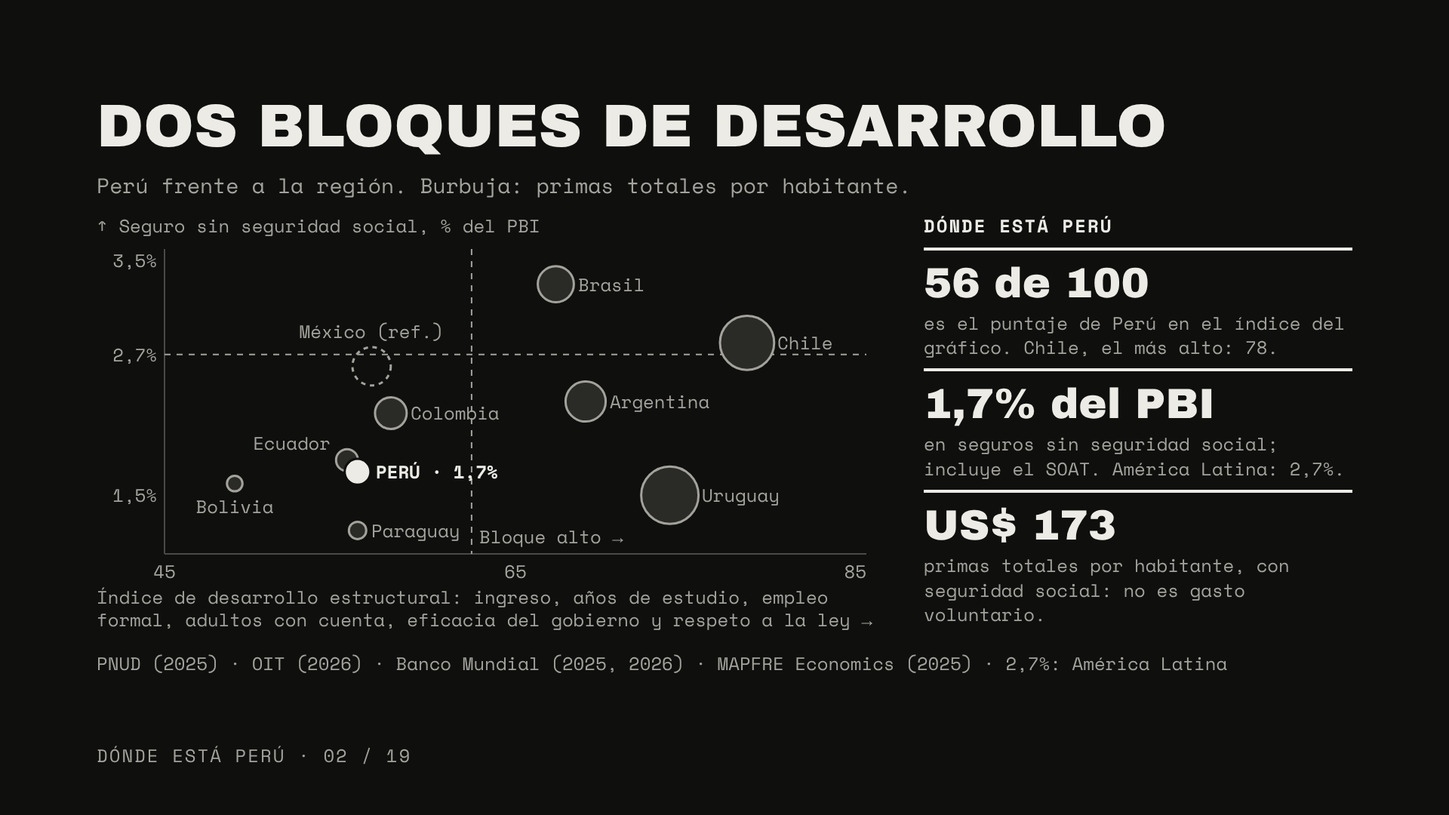
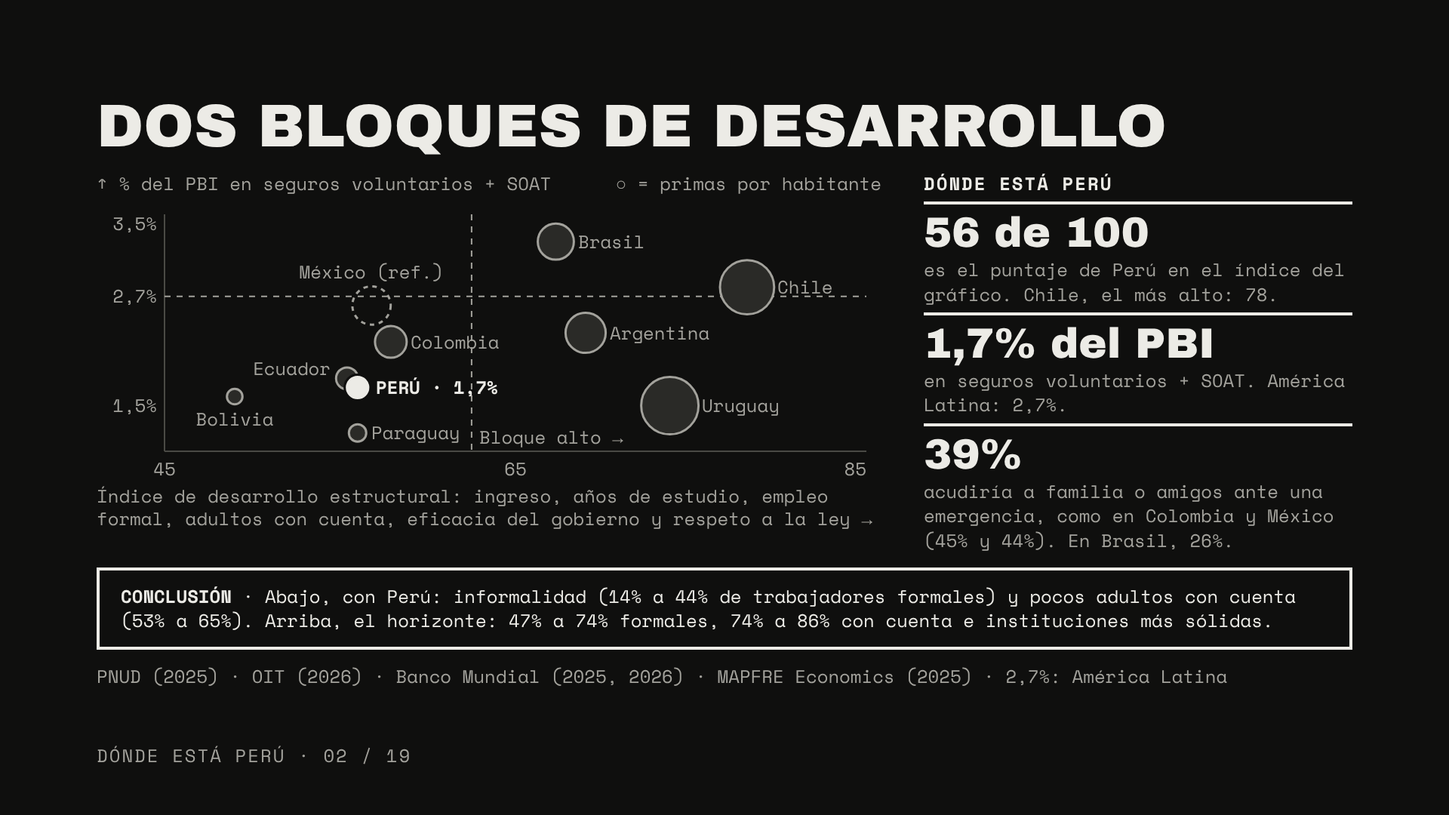
Lámina 2: eje de seguros voluntarios + SOAT, dato de conducta y cuadro de conclusión
Quita la línea de uso interno de la portada y regenera el HTML.

Claude-Session: https://claude.ai/code/session_0172Gzwbb2YLHGW14wEzAdeb

diff --git a/reports/presentacion-sudamerica/monocromo/seguros-digitales-peru-region.html b/reports/presentacion-sudamerica/monocromo/seguros-digitales-peru-region.html
@@ -76,60 +76,60 @@ section.inv { background: #ECEBE6; color: #0F0F0E; }
 <h1 class="cover-t">Seguros digitales:<br>Perú y la región</h1>
 <p class="sub" style="width:1300px">Cómo capturan valor las aseguradoras de los países que se parecen a Perú y de los que marcan el horizonte.</p>
 <div class="spacer"></div>
-<div style="border-top:8px solid #ECEBE6;padding-top:20px"><p class="dim">Documento de trabajo · Uso interno: incluye citas de entrevistas</p></div>
-<aside>Portada. Qué decir: esta presentación responde dos preguntas. Primero, dónde está Perú frente a la región en formalidad, seguros y digitalización. Segundo, cómo capturan valor con ecosistemas digitales y tecnología, en el front y en el back, las aseguradoras de los países que se parecen a Perú y las de los países que marcan el horizonte; cierra con lo que hace la competencia en Perú y lo que viene. Es un documento de trabajo de uso interno porque incluye citas de dos entrevistas a usuarias. Puente: empecemos por dónde está Perú.</aside>
+<aside>Portada. Qué decir: esta presentación responde dos preguntas. Primero, dónde está Perú frente a la región en formalidad, seguros y digitalización. Segundo, cómo capturan valor con ecosistemas digitales y tecnología, en el front y en el back, las aseguradoras de los países que se parecen a Perú y las de los países que marcan el horizonte; cierra con lo que hace la competencia en Perú y lo que viene. Puente: empecemos por dónde está Perú.</aside>
 </section>
 <section id="contexto-estructural" data-transition="fade">
 <h2 class="t">Dos bloques de desarrollo</h2>
-<p class="sub">Perú frente a la región. Burbuja: primas totales por habitante.</p>
 <div class="row">
-<div class="host" style="width:1040px;height:560px">
-<svg aria-label="Gráfico de burbujas: índice de desarrollo estructural frente a penetración del seguro sin primas de seguridad social, por país" width="1040" height="530" viewBox="0 0 1040 530">
-<line x1="90" y1="46" x2="90" y2="450" stroke="#4A4A45" stroke-width="2"/>
-<line x1="90" y1="450" x2="1020" y2="450" stroke="#4A4A45" stroke-width="2"/>
-<line x1="496.9" y1="46" x2="496.9" y2="450" stroke="#A3A29C" stroke-width="2" stroke-dasharray="8 8"/>
-<line x1="90" y1="185.8" x2="1020" y2="185.8" stroke="#A3A29C" stroke-width="2" stroke-dasharray="8 8"/>
-<circle cx="759.6" cy="372.3" r="38" fill="#2A2A27" stroke="#A3A29C" stroke-width="3"/>
-<circle cx="861.9" cy="170.3" r="35.9" fill="#2A2A27" stroke="#A3A29C" stroke-width="3"/>
-<circle cx="648" cy="248" r="26.6" fill="#2A2A27" stroke="#A3A29C" stroke-width="3"/>
-<circle cx="364.4" cy="201.4" r="25.4" fill="none" stroke="#A3A29C" stroke-width="3" stroke-dasharray="6 6"/>
-<circle cx="608.5" cy="92.6" r="23.9" fill="#2A2A27" stroke="#A3A29C" stroke-width="3"/>
-<circle cx="389.9" cy="263.5" r="21" fill="#2A2A27" stroke="#A3A29C" stroke-width="3"/>
-<circle cx="331.8" cy="325.7" r="14.5" fill="#2A2A27" stroke="#A3A29C" stroke-width="3"/>
-<circle cx="345.8" cy="418.9" r="11.5" fill="#2A2A27" stroke="#A3A29C" stroke-width="3"/>
-<circle cx="183" cy="356.8" r="10.3" fill="#2A2A27" stroke="#A3A29C" stroke-width="3"/>
-<circle cx="345.8" cy="341.2" r="17.1" fill="#ECEBE6" stroke="#0F0F0E" stroke-width="3"/>
+<div class="host" style="width:1040px;height:478px">
+<svg aria-label="Gráfico de burbujas: índice de desarrollo estructural frente a primas de seguros voluntarios más SOAT como porcentaje del PBI, por país" width="1040" height="372" viewBox="0 0 1040 372">
+<line x1="90" y1="56" x2="90" y2="370" stroke="#4A4A45" stroke-width="2"/>
+<line x1="90" y1="370" x2="1020" y2="370" stroke="#4A4A45" stroke-width="2"/>
+<line x1="496.9" y1="56" x2="496.9" y2="370" stroke="#A3A29C" stroke-width="2" stroke-dasharray="8 8"/>
+<line x1="90" y1="164.7" x2="1020" y2="164.7" stroke="#A3A29C" stroke-width="2" stroke-dasharray="8 8"/>
+<circle cx="759.6" cy="309.6" r="38" fill="#2A2A27" stroke="#A3A29C" stroke-width="3"/>
+<circle cx="861.9" cy="152.6" r="35.9" fill="#2A2A27" stroke="#A3A29C" stroke-width="3"/>
+<circle cx="648.0" cy="213.0" r="26.6" fill="#2A2A27" stroke="#A3A29C" stroke-width="3"/>
+<circle cx="364.3" cy="176.8" r="25.4" fill="none" stroke="#A3A29C" stroke-width="3" stroke-dasharray="6 6"/>
+<circle cx="608.5" cy="92.2" r="23.9" fill="#2A2A27" stroke="#A3A29C" stroke-width="3"/>
+<circle cx="389.9" cy="225.1" r="21" fill="#2A2A27" stroke="#A3A29C" stroke-width="3"/>
+<circle cx="331.8" cy="273.4" r="14.5" fill="#2A2A27" stroke="#A3A29C" stroke-width="3"/>
+<circle cx="345.8" cy="345.8" r="11.5" fill="#2A2A27" stroke="#A3A29C" stroke-width="3"/>
+<circle cx="183.0" cy="297.5" r="10.3" fill="#2A2A27" stroke="#A3A29C" stroke-width="3"/>
+<circle cx="345.8" cy="285.5" r="17.1" fill="#ECEBE6" stroke="#0F0F0E" stroke-width="3"/>
 </svg>
-<p class="lab" style="left:0px;top:0px;width:720px">↑ Seguro sin seguridad social, % del PBI</p>
-<p class="lab" style="left:0px;top:46px;width:80px;text-align:right">3,5%</p>
-<p class="lab" style="left:0px;top:171px;width:80px;text-align:right">2,7%</p>
-<p class="lab" style="left:0px;top:357px;width:80px;text-align:right">1,5%</p>
-<p class="lab" style="left:60px;top:458px;width:60px;text-align:center">45</p>
-<p class="lab" style="left:525px;top:458px;width:60px;text-align:center">65</p>
-<p class="lab" style="left:960px;top:458px;width:60px;text-align:right">85</p>
-<p class="lab" style="left:0px;top:492px;width:1040px">Índice de desarrollo estructural: ingreso, años de estudio, empleo formal, adultos con cuenta, eficacia del gobierno y respeto a la ley →</p>
-<p class="lab" style="left:507px;top:412px;width:200px">Bloque alto →</p>
-<p class="labpe" style="left:370px;top:326px;width:200px">PERÚ · 1,7%</p>
-<p class="lab" style="left:170px;top:288px;width:140px;text-align:right">Ecuador</p>
-<p class="lab" style="left:364px;top:404px;width:130px">Paraguay</p>
-<p class="lab" style="left:128px;top:372px;width:110px;text-align:center">Bolivia</p>
-<p class="lab" style="left:416px;top:248px;width:140px">Colombia</p>
-<p class="lab" style="left:259px;top:140px;width:210px;text-align:center">México (ref.)</p>
-<p class="lab" style="left:638px;top:78px;width:120px">Brasil</p>
-<p class="lab" style="left:680px;top:233px;width:150px">Argentina</p>
-<p class="lab" style="left:902px;top:155px;width:110px">Chile</p>
-<p class="lab" style="left:802px;top:357px;width:130px">Uruguay</p>
+<p class="lab" style="left:0px;top:0px;width:610px">↑ % del PBI en seguros voluntarios + SOAT</p>
+<p class="lab" style="left:680px;top:0px;width:360px;text-align:right">○ = primas por habitante</p>
+<p class="lab" style="left:0px;top:53px;width:80px;text-align:right">3,5%</p>
+<p class="lab" style="left:0px;top:149px;width:80px;text-align:right">2,7%</p>
+<p class="lab" style="left:0px;top:294px;width:80px;text-align:right">1,5%</p>
+<p class="lab" style="left:60px;top:378px;width:60px;text-align:center">45</p>
+<p class="lab" style="left:525px;top:378px;width:60px;text-align:center">65</p>
+<p class="lab" style="left:960px;top:378px;width:60px;text-align:right">85</p>
+<p class="lab" style="left:0px;top:414px;width:1040px">Índice de desarrollo estructural: ingreso, años de estudio, empleo formal, adultos con cuenta, eficacia del gobierno y respeto a la ley →</p>
+<p class="lab" style="left:507px;top:336px;width:200px">Bloque alto →</p>
+<p class="labpe" style="left:370px;top:270px;width:200px">PERÚ · 1,7%</p>
+<p class="lab" style="left:170px;top:245px;width:140px;text-align:right">Ecuador</p>
+<p class="lab" style="left:364px;top:330px;width:130px">Paraguay</p>
+<p class="lab" style="left:128px;top:312px;width:110px;text-align:center">Bolivia</p>
+<p class="lab" style="left:416px;top:210px;width:140px">Colombia</p>
+<p class="lab" style="left:259px;top:117px;width:210px;text-align:center">México (ref.)</p>
+<p class="lab" style="left:638px;top:77px;width:120px">Brasil</p>
+<p class="lab" style="left:680px;top:198px;width:150px">Argentina</p>
+<p class="lab" style="left:902px;top:137px;width:110px">Chile</p>
+<p class="lab" style="left:802px;top:294px;width:130px">Uruguay</p>
 </div>
-<div style="width:568px;display:flex;flex-direction:column;gap:12px">
+<div style="width:568px;display:flex;flex-direction:column;gap:8px">
 <p class="k">Dónde está Perú</p>
-<div class="stat"><p class="mid">56 de 100</p><p class="dim">es el puntaje de Perú en el índice del gráfico. Chile, el más alto: 78.</p></div>
-<div class="stat"><p class="mid">1,7% del PBI</p><p class="dim">en seguros sin seguridad social; incluye el SOAT. América Latina: 2,7%.</p></div>
-<div class="stat"><p class="mid">US$ 173</p><p class="dim">primas totales por habitante, con seguridad social: no es gasto voluntario.</p></div>
+<div style="display:flex;flex-direction:column;gap:4px;border-top:4px solid #ECEBE6;padding-top:10px"><p class="mid">56 de 100</p><p class="dim">es el puntaje de Perú en el índice del gráfico. Chile, el más alto: 78.</p></div>
+<div style="display:flex;flex-direction:column;gap:4px;border-top:4px solid #ECEBE6;padding-top:10px"><p class="mid">1,7% del PBI</p><p class="dim">en seguros voluntarios + SOAT. América Latina: 2,7%.</p></div>
+<div style="display:flex;flex-direction:column;gap:4px;border-top:4px solid #ECEBE6;padding-top:10px"><p class="mid">39%</p><p class="dim">acudiría a familia o amigos ante una emergencia, como en Colombia y México (45% y 44%). En Brasil, 26%.</p></div>
 </div>
 </div>
+<div class="strip"><p class="txt"><b>CONCLUSIÓN</b> · Abajo, con Perú: informalidad (14% a 44% de trabajadores formales) y pocos adultos con cuenta (53% a 65%). Arriba, el horizonte: 47% a 74% formales, 74% a 86% con cuenta e instituciones más sólidas.</p></div>
 <p class="src">PNUD (2025) · OIT (2026) · Banco Mundial (2025, 2026) · MAPFRE Economics (2025) · 2,7%: América Latina</p>
 <p class="foot">Dónde está Perú · 02 / 19</p>
-<aside>Qué decir: para el eje horizontal armamos un índice propio de desarrollo estructural, de 0 a 100, con cinco partes del mismo peso. Ingreso: ingreso nacional por habitante en dólares PPA de 2021, con la escala logarítmica del IDH (100 a 75.000 dólares) (PNUD, 2025, datos de 2023). Educación: años promedio de escolaridad de los adultos sobre 15 años, el máximo del IDH (PNUD, 2025). Empleo formal: 100 menos la tasa de empleo informal (OIT, 2026, datos de 2025). Inclusión financiera: adultos con una cuenta en un banco, una financiera o una billetera (Banco Mundial, 2025, datos de 2024). Instituciones: promedio de dos indicadores de gobernanza del Banco Mundial, en escala de 0 a 100: la eficacia del gobierno, que mide la calidad de los servicios públicos y de las políticas, y el Estado de derecho, que mide cuánto se confía en las reglas y se cumplen, incluidos los contratos, la propiedad, la policía y los tribunales (Banco Mundial, 2026, Worldwide Governance Indicators, datos de 2025). La nota al pie resume cómo se arma el índice. Perú saca, por parte: ingreso 75, años de estudio 68, trabajadores formales 30, adultos con cuenta 59 y gobierno y Estado de derecho 49; en total, 56. Chile, el más alto, saca 78. Lo que más lo baja es la informalidad. El gráfico muestra dos bloques separados por un salto de casi 10 puntos: abajo, Bolivia (49), Ecuador (55), Perú y Paraguay (56), México (57) y Colombia (58); arriba, Brasil (67), Argentina (69), Uruguay (74) y Chile (78); Turquía (70) no aparece porque MAPFRE no publica su penetración sin seguridad social; su penetración total es 2,8% del PBI (Allianz Research, citado por Allianz Türkiye, 2025). Dentro del bloque bajo, Perú está a la par de México y Colombia en desarrollo, pero compra menos seguro (1,7% del PBI frente a 2,6% y 2,2%). Uruguay sigue siendo la excepción del bloque alto, con 1,5%. Ojo: es un índice nuestro; los pesos iguales y los cinco componentes son una decisión que se puede discutir, y los datos son de años distintos (2023 a 2025). A la derecha, tres datos de Perú. 56 de 100 en el índice. 1,7% del PBI en seguros sin las primas de seguridad social, que incluye el SOAT, obligatorio; con ellas sería 2,0% (MAPFRE Economics, 2025). Y US$ 173 de primas totales por habitante: todas las primas del país, incluidas las ligadas a la seguridad social (pensiones, salud y riesgos laborales), divididas entre toda la población, incluidos los niños y quienes no tienen seguro; no es gasto voluntario. Sin las primas de seguridad social serían unos US$ 147, que todavía incluyen el SOAT (cálculo nuestro: 173 × 1,7 / 2,0); solo 10,2% de los adultos paga con regularidad a una aseguradora (Banco Mundial, 2025). Además, el mercado peruano casi no crece: en el primer semestre de 2026 las primas subieron 1,1% y las ganancias bajaron en la mitad de las compañías, según datos de la SBS (Gestión, 2026a). México aparece con línea punteada, solo como referencia. Puente: el desarrollo es una mirada; la segunda es cuánto usa la gente los pagos digitales.</aside>
+<aside>Qué decir: para el eje horizontal armamos un índice propio de desarrollo estructural, de 0 a 100, con cinco partes del mismo peso. Ingreso: ingreso nacional por habitante en dólares PPA de 2021, con la escala logarítmica del IDH (100 a 75.000 dólares) (PNUD, 2025, datos de 2023). Educación: años promedio de escolaridad de los adultos sobre 15 años, el máximo del IDH (PNUD, 2025). Empleo formal: 100 menos la tasa de empleo informal (OIT, 2026, datos de 2025). Inclusión financiera: adultos con una cuenta en un banco, una financiera o una billetera (Banco Mundial, 2025, datos de 2024). Instituciones: promedio de dos indicadores de gobernanza del Banco Mundial, en escala de 0 a 100: la eficacia del gobierno, que mide la calidad de los servicios públicos y de las políticas, y el Estado de derecho, que mide cuánto se confía en las reglas y se cumplen, incluidos los contratos, la propiedad, la policía y los tribunales (Banco Mundial, 2026, Worldwide Governance Indicators, datos de 2025). La nota al pie resume cómo se arma el índice. Perú saca, por parte: ingreso 75, años de estudio 68, trabajadores formales 30, adultos con cuenta 59 y gobierno y Estado de derecho 49; en total, 56. Chile, el más alto, saca 78. Lo que más lo baja es la informalidad. El gráfico muestra dos bloques separados por un salto de casi 10 puntos: abajo, Bolivia (49), Ecuador (55), Perú y Paraguay (56), México (57) y Colombia (58); arriba, Brasil (67), Argentina (69), Uruguay (74) y Chile (78); Turquía (70) no aparece porque MAPFRE no publica su penetración sin seguridad social; su penetración total es 2,8% del PBI (Allianz Research, citado por Allianz Türkiye, 2025). Dentro del bloque bajo, Perú está a la par de México y Colombia en desarrollo, pero compra menos seguro (1,7% del PBI frente a 2,6% y 2,2%). Uruguay sigue siendo la excepción del bloque alto, con 1,5%.  Eje vertical: primas de seguros sin las de seguridad social como porcentaje del PBI, es decir, seguros voluntarios más el SOAT, que es obligatorio (MAPFRE Economics, 2025). Conducta: el tercer dato de la derecha viene del Global Findex 2025 del Banco Mundial (datos de 2024): 39,4% de los adultos peruanos dice que su principal fuente de dinero para una emergencia serían su familia o sus amigos; en Colombia, 45,1%; en México, 43,7%; en Ecuador, 43,0%; en Turquía, 41,7%; en cambio, en Brasil 26,2%, en Bolivia 28,1% y en Paraguay 28,8%. Es el hábito que más separa a los países: Perú se parece a Colombia, México y Ecuador, y se aleja de Brasil. Solo 10,2% de los peruanos paga con regularidad un seguro. Conclusión del cuadro: lo que más separa a los dos bloques es el empleo formal (14% a 44% de trabajadores formales abajo, 47% a 74% arriba), la cuenta financiera (53% a 65% de adultos con cuenta abajo, 74% a 86% arriba) y las instituciones (38 a 49 puntos abajo, 51 a 72 arriba). El ingreso y los años de estudio separan menos: México tiene más ingreso por habitante que Brasil, y Brasil tiene menos años de estudio que Perú. Ojo: es un índice nuestro; los pesos iguales y los cinco componentes son una decisión que se puede discutir, y los datos son de años distintos (2023 a 2025). El tamaño de cada burbuja son las primas totales por habitante, incluidas las de seguridad social (pensiones, salud y riesgos laborales): Perú tiene US$ 173, frente a US$ 341 de la región; no es gasto voluntario. Sin las primas de seguridad social serían unos US$ 147, que todavía incluyen el SOAT (cálculo nuestro: 173 × 1,7 / 2,0); solo 10,2% de los adultos paga con regularidad a una aseguradora (Banco Mundial, 2025). Además, el mercado peruano casi no crece: en el primer semestre de 2026 las primas subieron 1,1% y las ganancias bajaron en la mitad de las compañías, según datos de la SBS (Gestión, 2026a). México aparece con línea punteada, solo como referencia. Puente: el desarrollo es una mirada; la segunda es cuánto usa la gente los pagos digitales.</aside>
 </section>
 <section id="contexto-digital" data-transition="fade">
 <h2 class="t">Digital a medias</h2>

diff --git a/reports/presentacion-sudamerica/monocromo/project/slides/contexto-estructural.html b/reports/presentacion-sudamerica/monocromo/project/slides/contexto-estructural.html
@@ -1,52 +1,53 @@
 <section id="contexto-estructural" data-transition="fade">
 <h2 class="t">Dos bloques de desarrollo</h2>
-<p class="sub">Perú frente a la región. Burbuja: primas totales por habitante.</p>
 <div class="row">
-<div class="host" style="width:1040px;height:560px">
-<svg aria-label="Gráfico de burbujas: índice de desarrollo estructural frente a penetración del seguro sin primas de seguridad social, por país" width="1040" height="530" viewBox="0 0 1040 530">
-<line x1="90" y1="46" x2="90" y2="450" stroke="#4A4A45" stroke-width="2"/>
-<line x1="90" y1="450" x2="1020" y2="450" stroke="#4A4A45" stroke-width="2"/>
-<line x1="496.9" y1="46" x2="496.9" y2="450" stroke="#A3A29C" stroke-width="2" stroke-dasharray="8 8"/>
-<line x1="90" y1="185.8" x2="1020" y2="185.8" stroke="#A3A29C" stroke-width="2" stroke-dasharray="8 8"/>
-<circle cx="759.6" cy="372.3" r="38" fill="#2A2A27" stroke="#A3A29C" stroke-width="3"/>
-<circle cx="861.9" cy="170.3" r="35.9" fill="#2A2A27" stroke="#A3A29C" stroke-width="3"/>
-<circle cx="648" cy="248" r="26.6" fill="#2A2A27" stroke="#A3A29C" stroke-width="3"/>
-<circle cx="364.4" cy="201.4" r="25.4" fill="none" stroke="#A3A29C" stroke-width="3" stroke-dasharray="6 6"/>
-<circle cx="608.5" cy="92.6" r="23.9" fill="#2A2A27" stroke="#A3A29C" stroke-width="3"/>
-<circle cx="389.9" cy="263.5" r="21" fill="#2A2A27" stroke="#A3A29C" stroke-width="3"/>
-<circle cx="331.8" cy="325.7" r="14.5" fill="#2A2A27" stroke="#A3A29C" stroke-width="3"/>
-<circle cx="345.8" cy="418.9" r="11.5" fill="#2A2A27" stroke="#A3A29C" stroke-width="3"/>
-<circle cx="183" cy="356.8" r="10.3" fill="#2A2A27" stroke="#A3A29C" stroke-width="3"/>
-<circle cx="345.8" cy="341.2" r="17.1" fill="#ECEBE6" stroke="#0F0F0E" stroke-width="3"/>
+<div class="host" style="width:1040px;height:478px">
+<svg aria-label="Gráfico de burbujas: índice de desarrollo estructural frente a primas de seguros voluntarios más SOAT como porcentaje del PBI, por país" width="1040" height="372" viewBox="0 0 1040 372">
+<line x1="90" y1="56" x2="90" y2="370" stroke="#4A4A45" stroke-width="2"/>
+<line x1="90" y1="370" x2="1020" y2="370" stroke="#4A4A45" stroke-width="2"/>
+<line x1="496.9" y1="56" x2="496.9" y2="370" stroke="#A3A29C" stroke-width="2" stroke-dasharray="8 8"/>
+<line x1="90" y1="164.7" x2="1020" y2="164.7" stroke="#A3A29C" stroke-width="2" stroke-dasharray="8 8"/>
+<circle cx="759.6" cy="309.6" r="38" fill="#2A2A27" stroke="#A3A29C" stroke-width="3"/>
+<circle cx="861.9" cy="152.6" r="35.9" fill="#2A2A27" stroke="#A3A29C" stroke-width="3"/>
+<circle cx="648.0" cy="213.0" r="26.6" fill="#2A2A27" stroke="#A3A29C" stroke-width="3"/>
+<circle cx="364.3" cy="176.8" r="25.4" fill="none" stroke="#A3A29C" stroke-width="3" stroke-dasharray="6 6"/>
+<circle cx="608.5" cy="92.2" r="23.9" fill="#2A2A27" stroke="#A3A29C" stroke-width="3"/>
+<circle cx="389.9" cy="225.1" r="21" fill="#2A2A27" stroke="#A3A29C" stroke-width="3"/>
+<circle cx="331.8" cy="273.4" r="14.5" fill="#2A2A27" stroke="#A3A29C" stroke-width="3"/>
+<circle cx="345.8" cy="345.8" r="11.5" fill="#2A2A27" stroke="#A3A29C" stroke-width="3"/>
+<circle cx="183.0" cy="297.5" r="10.3" fill="#2A2A27" stroke="#A3A29C" stroke-width="3"/>
+<circle cx="345.8" cy="285.5" r="17.1" fill="#ECEBE6" stroke="#0F0F0E" stroke-width="3"/>
 </svg>
-<p class="lab" style="left:0px;top:0px;width:720px">↑ Seguro sin seguridad social, % del PBI</p>
-<p class="lab" style="left:0px;top:46px;width:80px;text-align:right">3,5%</p>
-<p class="lab" style="left:0px;top:171px;width:80px;text-align:right">2,7%</p>
-<p class="lab" style="left:0px;top:357px;width:80px;text-align:right">1,5%</p>
-<p class="lab" style="left:60px;top:458px;width:60px;text-align:center">45</p>
-<p class="lab" style="left:525px;top:458px;width:60px;text-align:center">65</p>
-<p class="lab" style="left:960px;top:458px;width:60px;text-align:right">85</p>
-<p class="lab" style="left:0px;top:492px;width:1040px">Índice de desarrollo estructural: ingreso, años de estudio, empleo formal, adultos con cuenta, eficacia del gobierno y respeto a la ley →</p>
-<p class="lab" style="left:507px;top:412px;width:200px">Bloque alto →</p>
-<p class="labpe" style="left:370px;top:326px;width:200px">PERÚ · 1,7%</p>
-<p class="lab" style="left:170px;top:288px;width:140px;text-align:right">Ecuador</p>
-<p class="lab" style="left:364px;top:404px;width:130px">Paraguay</p>
-<p class="lab" style="left:128px;top:372px;width:110px;text-align:center">Bolivia</p>
-<p class="lab" style="left:416px;top:248px;width:140px">Colombia</p>
-<p class="lab" style="left:259px;top:140px;width:210px;text-align:center">México (ref.)</p>
-<p class="lab" style="left:638px;top:78px;width:120px">Brasil</p>
-<p class="lab" style="left:680px;top:233px;width:150px">Argentina</p>
-<p class="lab" style="left:902px;top:155px;width:110px">Chile</p>
-<p class="lab" style="left:802px;top:357px;width:130px">Uruguay</p>
+<p class="lab" style="left:0px;top:0px;width:610px">↑ % del PBI en seguros voluntarios + SOAT</p>
+<p class="lab" style="left:680px;top:0px;width:360px;text-align:right">○ = primas por habitante</p>
+<p class="lab" style="left:0px;top:53px;width:80px;text-align:right">3,5%</p>
+<p class="lab" style="left:0px;top:149px;width:80px;text-align:right">2,7%</p>
+<p class="lab" style="left:0px;top:294px;width:80px;text-align:right">1,5%</p>
+<p class="lab" style="left:60px;top:378px;width:60px;text-align:center">45</p>
+<p class="lab" style="left:525px;top:378px;width:60px;text-align:center">65</p>
+<p class="lab" style="left:960px;top:378px;width:60px;text-align:right">85</p>
+<p class="lab" style="left:0px;top:414px;width:1040px">Índice de desarrollo estructural: ingreso, años de estudio, empleo formal, adultos con cuenta, eficacia del gobierno y respeto a la ley →</p>
+<p class="lab" style="left:507px;top:336px;width:200px">Bloque alto →</p>
+<p class="labpe" style="left:370px;top:270px;width:200px">PERÚ · 1,7%</p>
+<p class="lab" style="left:170px;top:245px;width:140px;text-align:right">Ecuador</p>
+<p class="lab" style="left:364px;top:330px;width:130px">Paraguay</p>
+<p class="lab" style="left:128px;top:312px;width:110px;text-align:center">Bolivia</p>
+<p class="lab" style="left:416px;top:210px;width:140px">Colombia</p>
+<p class="lab" style="left:259px;top:117px;width:210px;text-align:center">México (ref.)</p>
+<p class="lab" style="left:638px;top:77px;width:120px">Brasil</p>
+<p class="lab" style="left:680px;top:198px;width:150px">Argentina</p>
+<p class="lab" style="left:902px;top:137px;width:110px">Chile</p>
+<p class="lab" style="left:802px;top:294px;width:130px">Uruguay</p>
 </div>
-<div style="width:568px;display:flex;flex-direction:column;gap:12px">
+<div style="width:568px;display:flex;flex-direction:column;gap:8px">
 <p class="k">Dónde está Perú</p>
-<div class="stat"><p class="mid">56 de 100</p><p class="dim">es el puntaje de Perú en el índice del gráfico. Chile, el más alto: 78.</p></div>
-<div class="stat"><p class="mid">1,7% del PBI</p><p class="dim">en seguros sin seguridad social; incluye el SOAT. América Latina: 2,7%.</p></div>
-<div class="stat"><p class="mid">US$ 173</p><p class="dim">primas totales por habitante, con seguridad social: no es gasto voluntario.</p></div>
+<div style="display:flex;flex-direction:column;gap:4px;border-top:4px solid #ECEBE6;padding-top:10px"><p class="mid">56 de 100</p><p class="dim">es el puntaje de Perú en el índice del gráfico. Chile, el más alto: 78.</p></div>
+<div style="display:flex;flex-direction:column;gap:4px;border-top:4px solid #ECEBE6;padding-top:10px"><p class="mid">1,7% del PBI</p><p class="dim">en seguros voluntarios + SOAT. América Latina: 2,7%.</p></div>
+<div style="display:flex;flex-direction:column;gap:4px;border-top:4px solid #ECEBE6;padding-top:10px"><p class="mid">39%</p><p class="dim">acudiría a familia o amigos ante una emergencia, como en Colombia y México (45% y 44%). En Brasil, 26%.</p></div>
 </div>
 </div>
+<div class="strip"><p class="txt"><b>CONCLUSIÓN</b> · Abajo, con Perú: informalidad (14% a 44% de trabajadores formales) y pocos adultos con cuenta (53% a 65%). Arriba, el horizonte: 47% a 74% formales, 74% a 86% con cuenta e instituciones más sólidas.</p></div>
 <p class="src">PNUD (2025) · OIT (2026) · Banco Mundial (2025, 2026) · MAPFRE Economics (2025) · 2,7%: América Latina</p>
 <p class="foot">Dónde está Perú · 02 / 19</p>
-<aside>Qué decir: para el eje horizontal armamos un índice propio de desarrollo estructural, de 0 a 100, con cinco partes del mismo peso. Ingreso: ingreso nacional por habitante en dólares PPA de 2021, con la escala logarítmica del IDH (100 a 75.000 dólares) (PNUD, 2025, datos de 2023). Educación: años promedio de escolaridad de los adultos sobre 15 años, el máximo del IDH (PNUD, 2025). Empleo formal: 100 menos la tasa de empleo informal (OIT, 2026, datos de 2025). Inclusión financiera: adultos con una cuenta en un banco, una financiera o una billetera (Banco Mundial, 2025, datos de 2024). Instituciones: promedio de dos indicadores de gobernanza del Banco Mundial, en escala de 0 a 100: la eficacia del gobierno, que mide la calidad de los servicios públicos y de las políticas, y el Estado de derecho, que mide cuánto se confía en las reglas y se cumplen, incluidos los contratos, la propiedad, la policía y los tribunales (Banco Mundial, 2026, Worldwide Governance Indicators, datos de 2025). La nota al pie resume cómo se arma el índice. Perú saca, por parte: ingreso 75, años de estudio 68, trabajadores formales 30, adultos con cuenta 59 y gobierno y Estado de derecho 49; en total, 56. Chile, el más alto, saca 78. Lo que más lo baja es la informalidad. El gráfico muestra dos bloques separados por un salto de casi 10 puntos: abajo, Bolivia (49), Ecuador (55), Perú y Paraguay (56), México (57) y Colombia (58); arriba, Brasil (67), Argentina (69), Uruguay (74) y Chile (78); Turquía (70) no aparece porque MAPFRE no publica su penetración sin seguridad social; su penetración total es 2,8% del PBI (Allianz Research, citado por Allianz Türkiye, 2025). Dentro del bloque bajo, Perú está a la par de México y Colombia en desarrollo, pero compra menos seguro (1,7% del PBI frente a 2,6% y 2,2%). Uruguay sigue siendo la excepción del bloque alto, con 1,5%. Ojo: es un índice nuestro; los pesos iguales y los cinco componentes son una decisión que se puede discutir, y los datos son de años distintos (2023 a 2025). A la derecha, tres datos de Perú. 56 de 100 en el índice. 1,7% del PBI en seguros sin las primas de seguridad social, que incluye el SOAT, obligatorio; con ellas sería 2,0% (MAPFRE Economics, 2025). Y US$ 173 de primas totales por habitante: todas las primas del país, incluidas las ligadas a la seguridad social (pensiones, salud y riesgos laborales), divididas entre toda la población, incluidos los niños y quienes no tienen seguro; no es gasto voluntario. Sin las primas de seguridad social serían unos US$ 147, que todavía incluyen el SOAT (cálculo nuestro: 173 × 1,7 / 2,0); solo 10,2% de los adultos paga con regularidad a una aseguradora (Banco Mundial, 2025). Además, el mercado peruano casi no crece: en el primer semestre de 2026 las primas subieron 1,1% y las ganancias bajaron en la mitad de las compañías, según datos de la SBS (Gestión, 2026a). México aparece con línea punteada, solo como referencia. Puente: el desarrollo es una mirada; la segunda es cuánto usa la gente los pagos digitales.</aside>
+<aside>Qué decir: para el eje horizontal armamos un índice propio de desarrollo estructural, de 0 a 100, con cinco partes del mismo peso. Ingreso: ingreso nacional por habitante en dólares PPA de 2021, con la escala logarítmica del IDH (100 a 75.000 dólares) (PNUD, 2025, datos de 2023). Educación: años promedio de escolaridad de los adultos sobre 15 años, el máximo del IDH (PNUD, 2025). Empleo formal: 100 menos la tasa de empleo informal (OIT, 2026, datos de 2025). Inclusión financiera: adultos con una cuenta en un banco, una financiera o una billetera (Banco Mundial, 2025, datos de 2024). Instituciones: promedio de dos indicadores de gobernanza del Banco Mundial, en escala de 0 a 100: la eficacia del gobierno, que mide la calidad de los servicios públicos y de las políticas, y el Estado de derecho, que mide cuánto se confía en las reglas y se cumplen, incluidos los contratos, la propiedad, la policía y los tribunales (Banco Mundial, 2026, Worldwide Governance Indicators, datos de 2025). La nota al pie resume cómo se arma el índice. Perú saca, por parte: ingreso 75, años de estudio 68, trabajadores formales 30, adultos con cuenta 59 y gobierno y Estado de derecho 49; en total, 56. Chile, el más alto, saca 78. Lo que más lo baja es la informalidad. El gráfico muestra dos bloques separados por un salto de casi 10 puntos: abajo, Bolivia (49), Ecuador (55), Perú y Paraguay (56), México (57) y Colombia (58); arriba, Brasil (67), Argentina (69), Uruguay (74) y Chile (78); Turquía (70) no aparece porque MAPFRE no publica su penetración sin seguridad social; su penetración total es 2,8% del PBI (Allianz Research, citado por Allianz Türkiye, 2025). Dentro del bloque bajo, Perú está a la par de México y Colombia en desarrollo, pero compra menos seguro (1,7% del PBI frente a 2,6% y 2,2%). Uruguay sigue siendo la excepción del bloque alto, con 1,5%.  Eje vertical: primas de seguros sin las de seguridad social como porcentaje del PBI, es decir, seguros voluntarios más el SOAT, que es obligatorio (MAPFRE Economics, 2025). Conducta: el tercer dato de la derecha viene del Global Findex 2025 del Banco Mundial (datos de 2024): 39,4% de los adultos peruanos dice que su principal fuente de dinero para una emergencia serían su familia o sus amigos; en Colombia, 45,1%; en México, 43,7%; en Ecuador, 43,0%; en Turquía, 41,7%; en cambio, en Brasil 26,2%, en Bolivia 28,1% y en Paraguay 28,8%. Es el hábito que más separa a los países: Perú se parece a Colombia, México y Ecuador, y se aleja de Brasil. Solo 10,2% de los peruanos paga con regularidad un seguro. Conclusión del cuadro: lo que más separa a los dos bloques es el empleo formal (14% a 44% de trabajadores formales abajo, 47% a 74% arriba), la cuenta financiera (53% a 65% de adultos con cuenta abajo, 74% a 86% arriba) y las instituciones (38 a 49 puntos abajo, 51 a 72 arriba). El ingreso y los años de estudio separan menos: México tiene más ingreso por habitante que Brasil, y Brasil tiene menos años de estudio que Perú. Ojo: es un índice nuestro; los pesos iguales y los cinco componentes son una decisión que se puede discutir, y los datos son de años distintos (2023 a 2025). El tamaño de cada burbuja son las primas totales por habitante, incluidas las de seguridad social (pensiones, salud y riesgos laborales): Perú tiene US$ 173, frente a US$ 341 de la región; no es gasto voluntario. Sin las primas de seguridad social serían unos US$ 147, que todavía incluyen el SOAT (cálculo nuestro: 173 × 1,7 / 2,0); solo 10,2% de los adultos paga con regularidad a una aseguradora (Banco Mundial, 2025). Además, el mercado peruano casi no crece: en el primer semestre de 2026 las primas subieron 1,1% y las ganancias bajaron en la mitad de las compañías, según datos de la SBS (Gestión, 2026a). México aparece con línea punteada, solo como referencia. Puente: el desarrollo es una mirada; la segunda es cuánto usa la gente los pagos digitales.</aside>
 </section>

diff --git a/reports/presentacion-sudamerica/monocromo/project/slides/portada.html b/reports/presentacion-sudamerica/monocromo/project/slides/portada.html
@@ -4,6 +4,5 @@
 <h1 class="cover-t">Seguros digitales:<br>Perú y la región</h1>
 <p class="sub" style="width:1300px">Cómo capturan valor las aseguradoras de los países que se parecen a Perú y de los que marcan el horizonte.</p>
 <div class="spacer"></div>
-<div style="border-top:8px solid #ECEBE6;padding-top:20px"><p class="dim">Documento de trabajo · Uso interno: incluye citas de entrevistas</p></div>
-<aside>Portada. Qué decir: esta presentación responde dos preguntas. Primero, dónde está Perú frente a la región en formalidad, seguros y digitalización. Segundo, cómo capturan valor con ecosistemas digitales y tecnología, en el front y en el back, las aseguradoras de los países que se parecen a Perú y las de los países que marcan el horizonte; cierra con lo que hace la competencia en Perú y lo que viene. Es un documento de trabajo de uso interno porque incluye citas de dos entrevistas a usuarias. Puente: empecemos por dónde está Perú.</aside>
+<aside>Portada. Qué decir: esta presentación responde dos preguntas. Primero, dónde está Perú frente a la región en formalidad, seguros y digitalización. Segundo, cómo capturan valor con ecosistemas digitales y tecnología, en el front y en el back, las aseguradoras de los países que se parecen a Perú y las de los países que marcan el horizonte; cierra con lo que hace la competencia en Perú y lo que viene. Puente: empecemos por dónde está Perú.</aside>
 </section>
